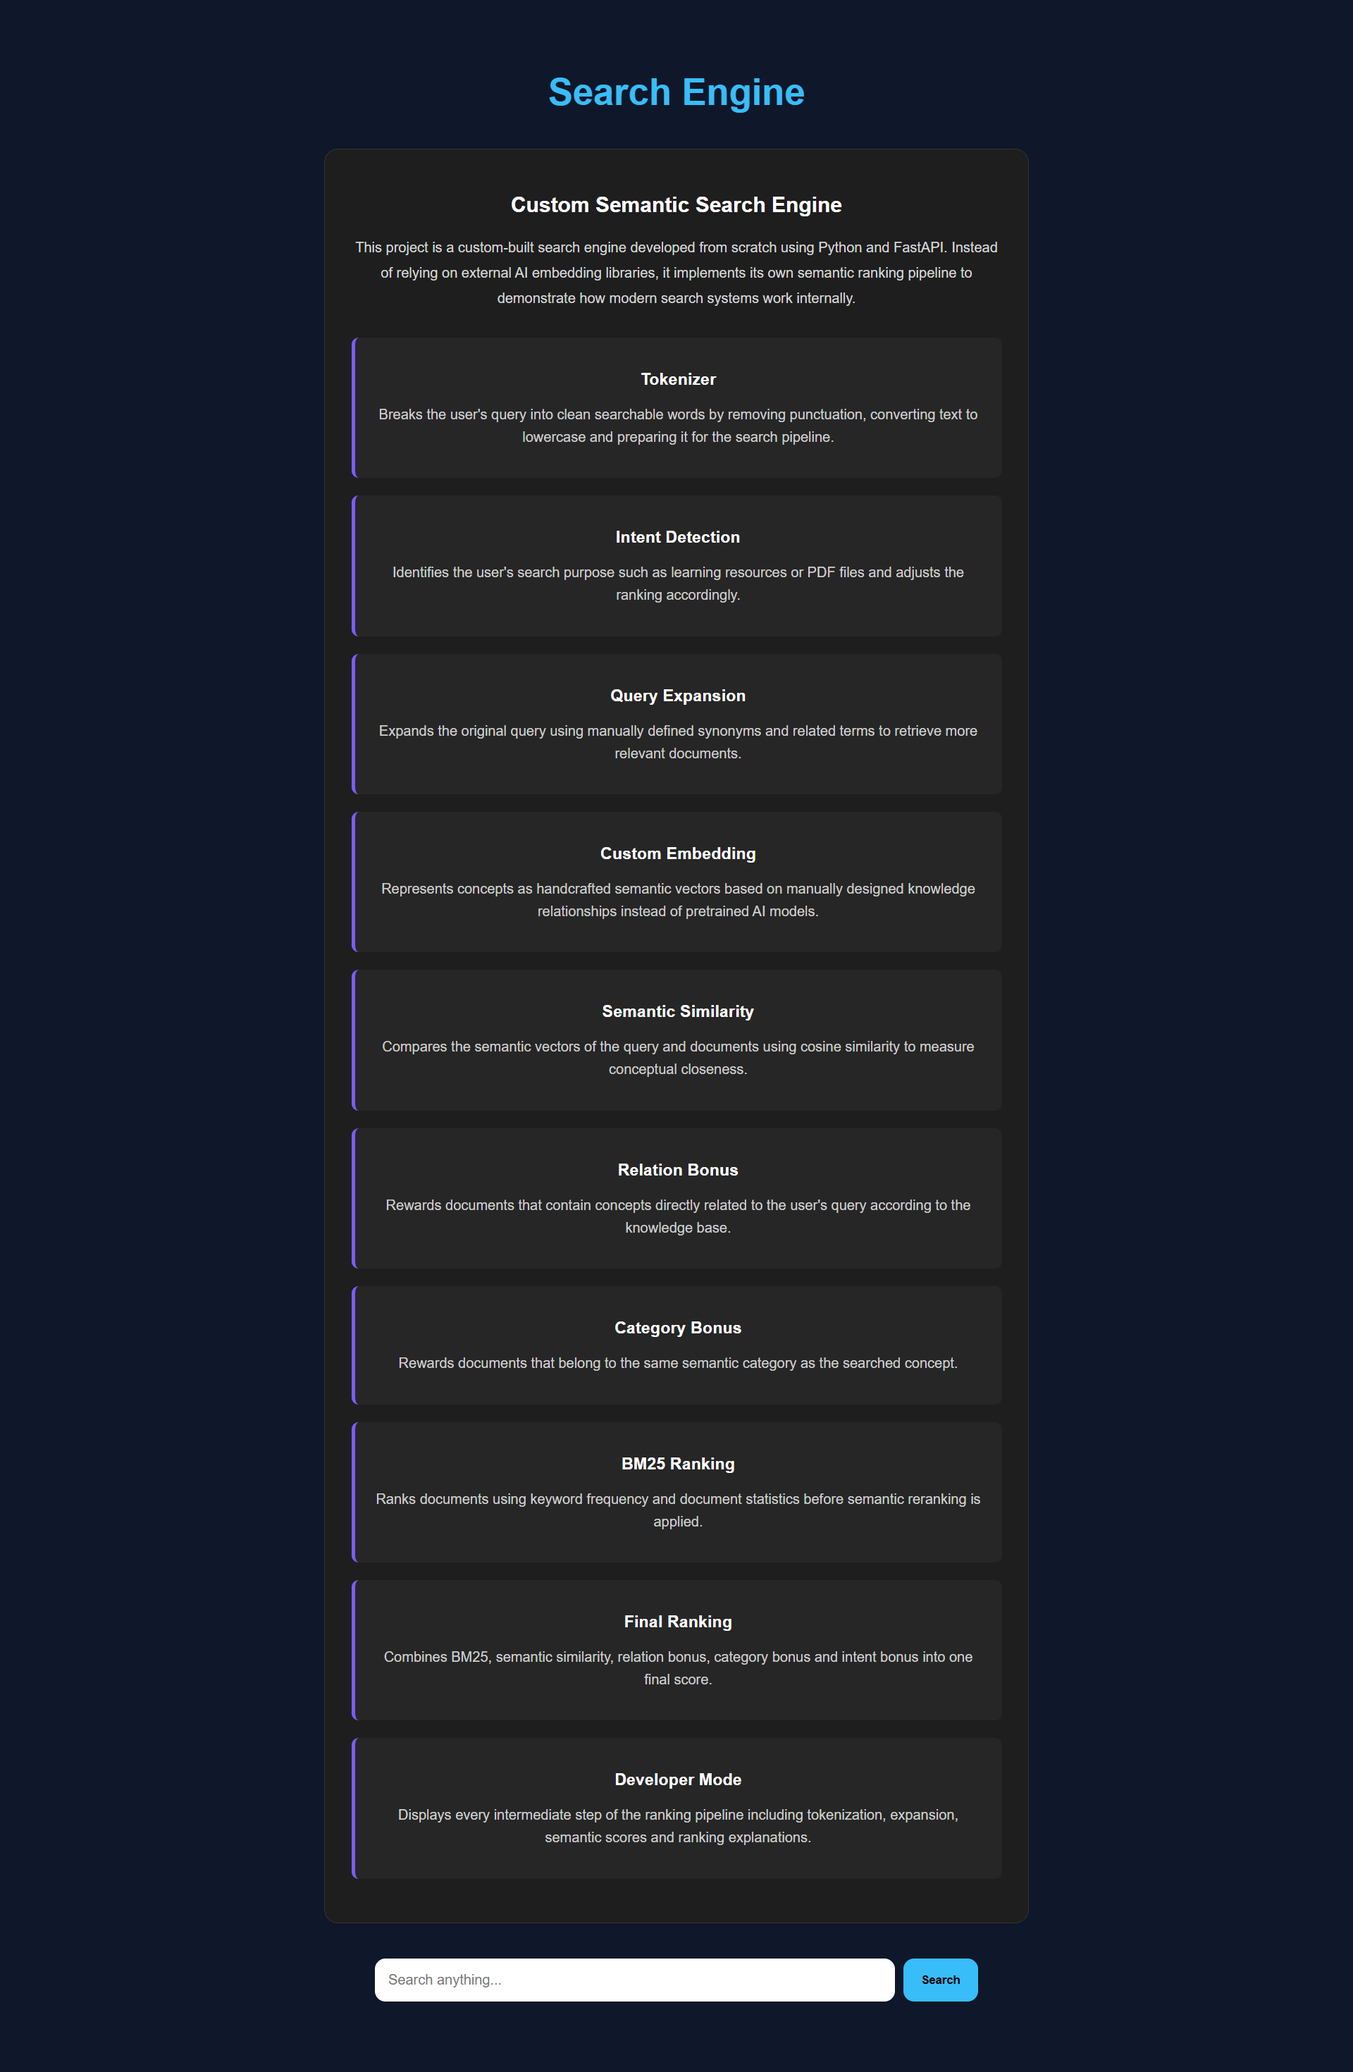
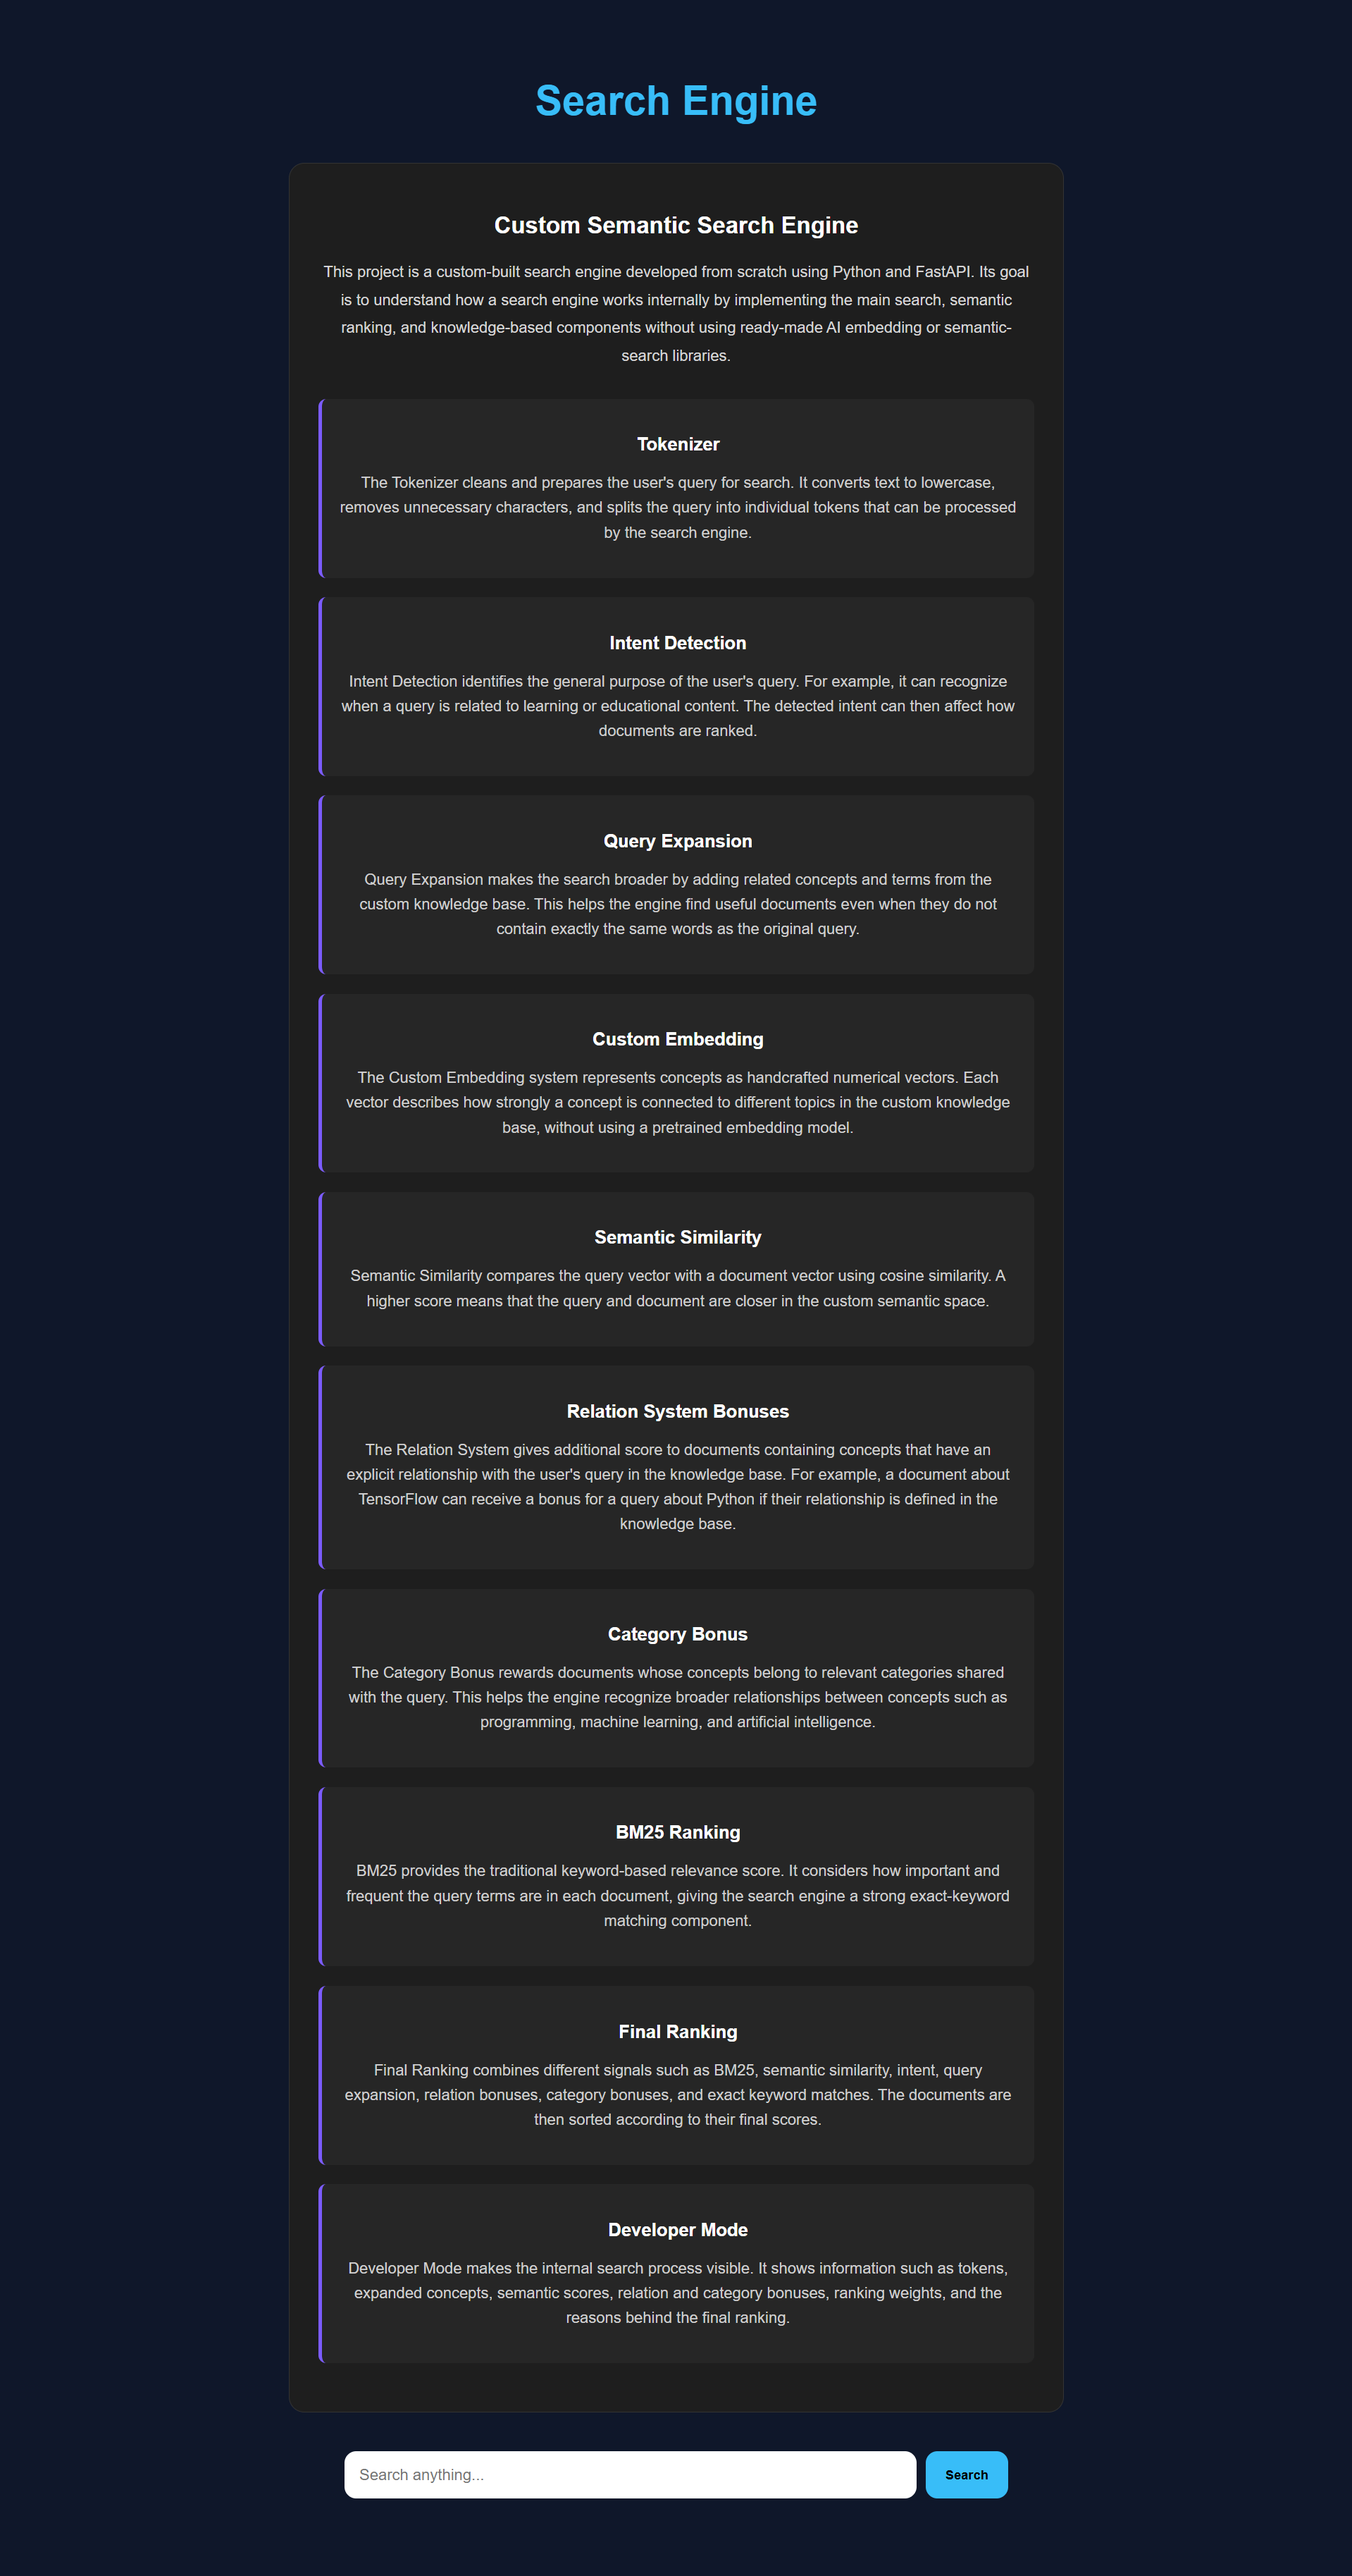
docs: update project screenshot in README

diff --git a/Readme.md b/Readme.md
@@ -218,18 +218,18 @@ This project was intentionally implemented from scratch to understand the intern
 
 ## Screenshots
 
-### Home
+### Home Page
 
-!Home (screenshots\home.png)
+![Home Page](screenshots/home.png)
 
 ### Search Results
 
-!Search (screenshots\search.png)
+![Search Results](screenshots/search.png)
 
 ### Developer Mode
 
-!Developer (screenshots\Developer_mode.png)
+![Developer Mode](screenshots/Developer_mode.png)
 
 ### Full Page
 
-!Full (screenshots\full_page.png)
+![Full Page](screenshots/full_page.png)
